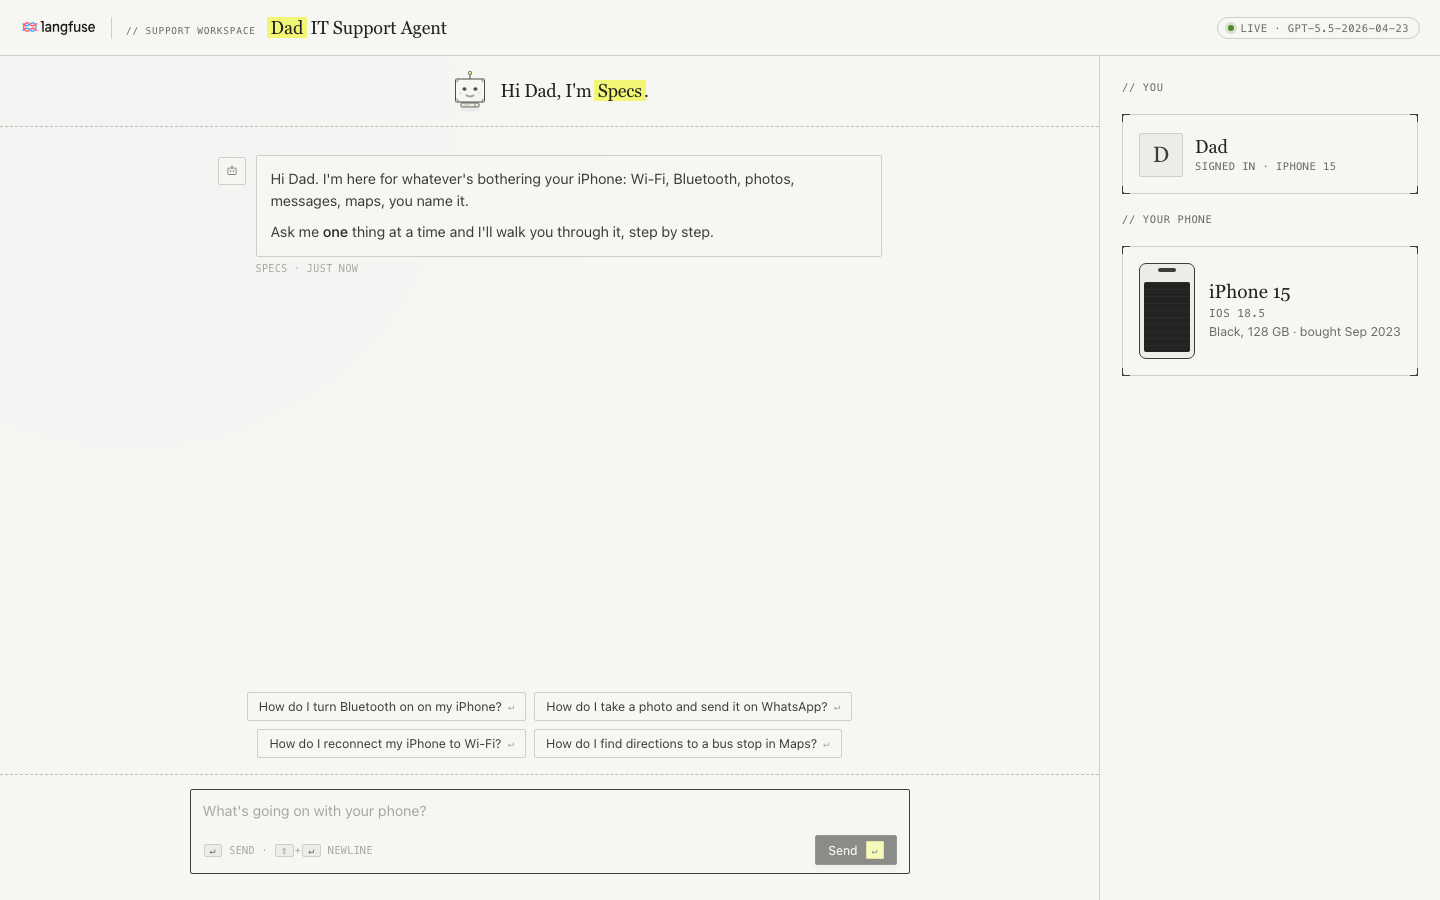
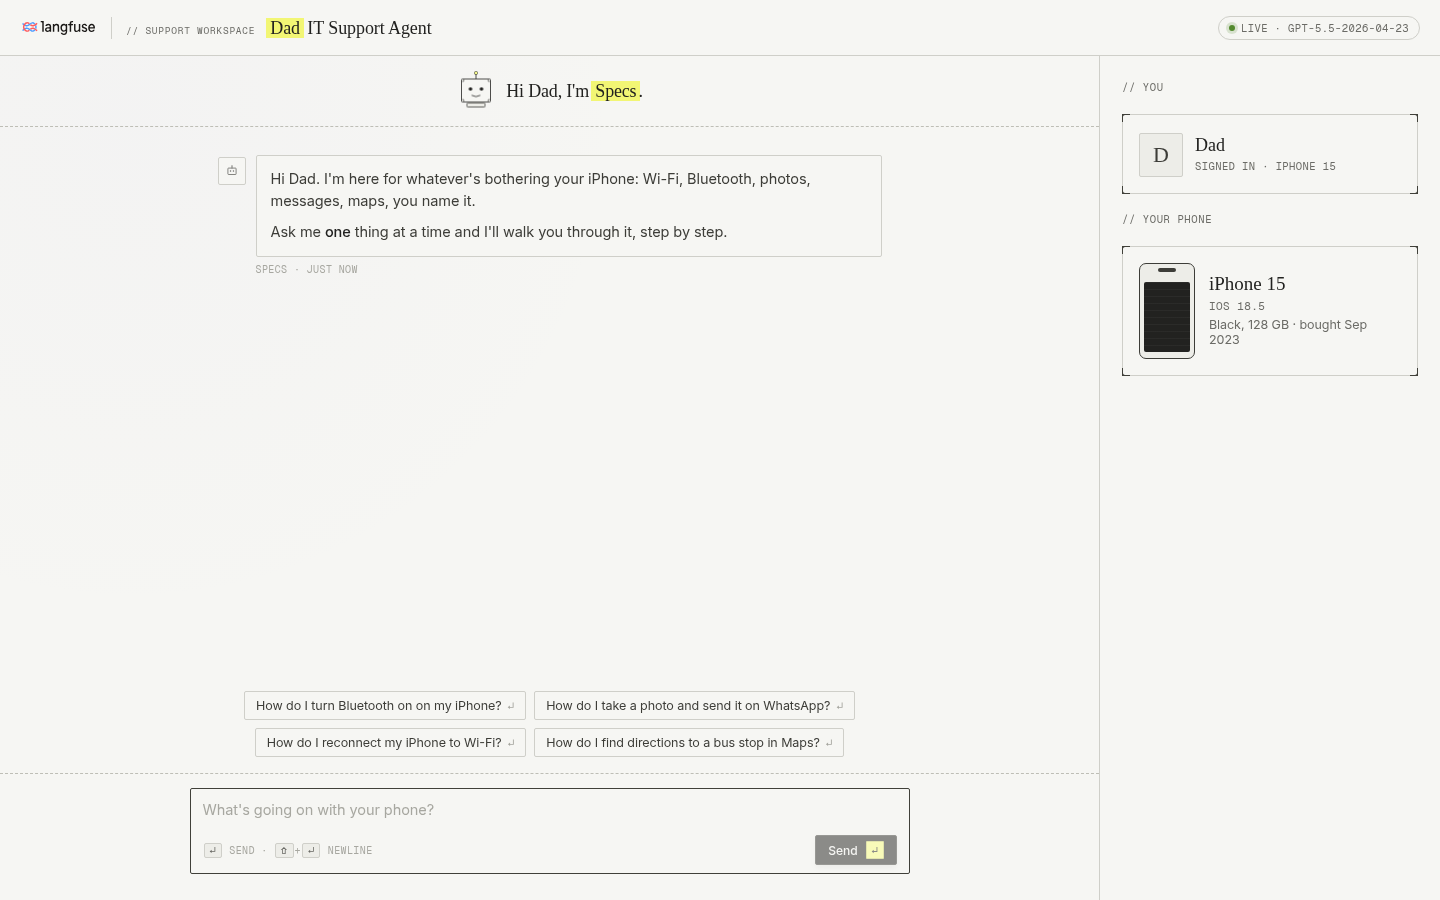
Show the Python app in every app image
- sample_app.png: recaptured from the Python app (1440x900, greeting state).
- specs_illustration.png and tracing/process_illustration.png: redrawn from a
  real Python run (gpt-5.5, iPhone 15, two generations with both tools in the
  first). HTML sources and a render script live in docs/images/source/.
- docs/images/README.md lists the Langfuse UI captures that still show
  TypeScript-written traces.

diff --git a/docs/images/source/specs_illustration.html b/docs/images/source/specs_illustration.html
@@ -1,0 +1,49 @@
+<!doctype html><html><head><meta charset="utf-8"><link rel="stylesheet" href="_base.css">
+<style>
+body { width: 840px; height: 366px; padding: 14px 20px 0; }
+h1 { font-size: 34px; margin-top: 12px; }
+.sub { font-size: 12px; margin-top: 8px; }
+.stage { position: relative; height: 230px; margin-top: 14px; }
+.tools { position:absolute; left: 338px; top: 0; width: 164px; padding: 10px 12px; }
+.tools .row { display:flex; align-items:center; gap:8px; font-family: var(--font-mono); font-size: 11px; padding: 6px 0; }
+.tools .row + .row { border-top: 1px dashed var(--line-divider-dash); }
+.tools .row::before { content:"▸"; color: var(--text-tertiary); font-size:8px; }
+.sq { display:inline-block; width:8px; height:8px; border:1.5px solid var(--text-primary); background: var(--surface-cta-primary); vertical-align: middle; margin-right: 6px; }
+.calls { position:absolute; left: 400px; top: 92px; font-family: var(--font-mono); font-size: 9px; letter-spacing: .1em; color: var(--text-secondary); text-align:center; width: 40px; }
+.vline { position:absolute; left: 420px; top: 84px; height: 30px; border-left: 1.5px dashed var(--text-secondary); }
+.vline::after { content:""; position:absolute; left:-5.5px; bottom:-6px; border-top: 7px solid var(--text-secondary); border-left: 4.5px solid transparent; border-right: 4.5px solid transparent; }
+.user { position:absolute; left: 30px; top: 118px; width: 150px; height: 60px; display:flex; align-items:center; gap: 10px; padding: 0 12px; }
+.av { width: 30px; height: 30px; border:1px solid var(--line-structure); background: var(--surface-1); display:flex; align-items:center; justify-content:center; }
+.agent { position:absolute; left: 328px; top: 120px; width: 184px; height: 66px; display:flex; align-items:center; gap: 12px; padding: 0 12px; }
+.model { position:absolute; left: 640px; top: 128px; width: 170px; white-space: nowrap; height: 46px; border-radius: 23px; display:flex; align-items:center; gap: 10px; padding: 0 16px; }
+.big { font-size: 17px; }
+.small { font-size: 9.5px; color: var(--text-tertiary); }
+.link { position:absolute; top: 150px; border-top: 1.5px dashed var(--text-secondary); }
+.link::before, .link::after { content:""; position:absolute; top:-5.5px; border-top: 4.5px solid transparent; border-bottom: 4.5px solid transparent; }
+.link::before { left:-2px; border-right: 8px solid var(--text-secondary); }
+.link::after { right:-2px; border-left: 8px solid var(--text-secondary); }
+.pill { position:absolute; top: -9px; left: 50%; transform: translateX(-50%); background: var(--surface-bg); border:1px solid var(--line-structure); border-radius: 9px; padding: 1px 8px; font-family: var(--font-mono); font-size: 8.5px; letter-spacing:.1em; white-space:nowrap; color: var(--text-secondary); }
+.legend { position:absolute; left:0; right:0; bottom: 0; }
+</style></head><body>
+<div class="brand"><img src="../../../app/static/assets/langfuse-wordart.svg"><span class="sep"></span><span>// Agent · Architecture · Python app</span></div>
+<h1>How <span class="hl">Specs</span> handles a ticket</h1>
+<p class="sub">One agent, two tools, one model. Each hop is an observation in the trace.</p>
+<div class="stage">
+  <div class="box tools"><span class="c1"></span><span class="c2"></span>
+    <div class="kicker" style="margin-bottom:4px"><span class="sq"></span>Tools</div>
+    <div class="row">get_support_context</div><div class="row">search_help_library</div></div>
+  <div class="vline"></div><div class="calls" style="top:88px;left:440px;text-align:left">CALLS</div>
+  <div class="box user"><span class="c1"></span><span class="c2"></span>
+    <div class="av"><svg width="16" height="16" viewBox="0 0 24 24" fill="none" stroke="#222220" stroke-width="1.4"><circle cx="12" cy="8" r="4"/><path d="M4 21c1-4 4-6 8-6s7 2 8 6"/></svg></div>
+    <div><div class="kicker">// User</div><div class="big">Dad</div><div class="small">"How do I turn Bluetooth on?"</div></div></div>
+  <div class="link" style="left: 184px; width: 140px;"><span class="pill">MESSAGES · ANSWER</span></div>
+  <div class="box agent"><span class="c1"></span><span class="c2"></span>
+    <svg viewBox="0 0 80 92" style="width:24px;height:28px;flex-shrink:0" xmlns="http://www.w3.org/2000/svg"><line x1="40" y1="22" x2="40" y2="12" stroke="#222220" stroke-width="2.4" stroke-linecap="round"/><circle cx="40" cy="10" r="4.4" fill="#fbff81" stroke="#222220" stroke-width="2"/><rect x="11" y="22" width="58" height="46" rx="2" fill="#f6f6f3" stroke="#222220" stroke-width="2.6"/><circle cx="29" cy="42" r="4.6" fill="#222220"/><circle cx="51" cy="42" r="4.6" fill="#222220"/><path d="M32 55 Q40 60 48 55" stroke="#222220" stroke-width="2.6" fill="none" stroke-linecap="round"/><rect x="22" y="70" width="36" height="8" rx="1.5" fill="#edede8" stroke="#222220" stroke-width="2.2"/></svg>
+    <div><div class="kicker">// Agent</div><div class="big"><span class="hl" style="padding:0 4px">Specs</span></div><div class="small">dad-it-support-chat-turn</div></div></div>
+  <div class="link" style="left: 516px; width: 120px;"><span class="pill">COMPLETION</span></div>
+  <div class="box model"><span class="c1"></span><span class="c2"></span>
+    <svg width="18" height="18" viewBox="0 0 24 24" fill="none" stroke="#222220" stroke-width="1.4"><path d="M12 2.5l2.2 4.6 5 .7-3.6 3.5.9 5-4.5-2.4-4.5 2.4.9-5L4.8 7.8l5-.7z"/></svg>
+    <div><div class="kicker">// Model</div><div class="big" style="font-size:14px">OpenAI · <span class="mono" style="font-size:11px">gpt-5.5</span></div></div></div>
+  <div class="legend"><span>- - - traced span</span><span><span class="sq"></span>tool call</span><span>▲ observed by Langfuse</span></div>
+</div>
+</body></html>

diff --git a/docs/images/source/process_illustration.html b/docs/images/source/process_illustration.html
@@ -1,0 +1,51 @@
+<!doctype html><html><head><meta charset="utf-8"><link rel="stylesheet" href="_base.css">
+<style>
+body { width: 850px; height: 267px; padding: 14px 14px 0; }
+h1 { font-size: 26px; margin-top: 10px; }
+.sub { font-size: 11.5px; margin-top: 6px; }
+.row { display:flex; align-items:flex-start; justify-content:center; margin-top: 22px; }
+.step { width: 112px; text-align:center; }
+.num { font-family: var(--font-mono); font-size: 9.5px; color: var(--text-tertiary); margin-bottom: 6px; }
+.step .box { height: 74px; display:flex; flex-direction:column; align-items:center; justify-content:center; gap:5px; padding: 6px 4px; }
+.title { font-size: 13.5px; }
+.cap { font-size: 10.5px; color: var(--text-secondary); margin-top: 7px; line-height: 1.35; }
+.cap i { color: var(--text-primary); }
+.gap { width: 22px; margin-top: 52px; }
+svg.i { width: 18px; height: 18px; }
+.step .kicker { font-size: 8.5px; letter-spacing: .06em; }
+</style></head><body>
+<div class="brand"><img src="../../../app/static/assets/langfuse-wordart.svg"><span class="sep"></span><span>// Agent loop · Python app</span></div>
+<h1>One question becomes <span class="hl">six steps</span>.</h1>
+<p class="sub">Dad asks <i>"How do I turn Bluetooth on?"</i> Here is what Specs did before the answer came back, from a real trace of this app.</p>
+<div class="row">
+ <div class="step"><div class="num">01</div><div class="box"><span class="c1"></span><span class="c2"></span>
+   <svg class="i" viewBox="0 0 24 24" fill="none" stroke="#222220" stroke-width="1.4"><circle cx="12" cy="8" r="4"/><path d="M4 21c1-4 4-6 8-6s7 2 8 6"/></svg>
+   <span class="kicker">// Question</span><span class="title">Dad asks</span></div>
+   <div class="cap"><i>"How do I turn Bluetooth on?"</i></div></div>
+ <div class="gap arrow"></div>
+ <div class="step"><div class="num">02</div><div class="box"><span class="c1"></span><span class="c2"></span>
+   <svg class="i" viewBox="0 0 24 24" fill="none" stroke="#222220" stroke-width="1.4"><path d="M12 2.5l2.2 4.6 5 .7-3.6 3.5.9 5-4.5-2.4-4.5 2.4.9-5L4.8 7.8l5-.7z"/></svg>
+   <span class="kicker llm">// LLM · gpt-5.5</span><span class="title">Plan</span></div>
+   <div class="cap">Calls <i>both tools</i> in one tool-call turn.</div></div>
+ <div class="gap arrow"></div>
+ <div class="step"><div class="num">03</div><div class="box tool"><span class="c1"></span><span class="c2"></span>
+   <svg class="i" viewBox="0 0 24 24" fill="none" stroke="#222220" stroke-width="1.4"><rect x="4" y="6" width="16" height="12" rx="1"/><path d="M8 10h8M8 14h5"/></svg>
+   <span class="kicker">// Tool</span><span class="code">get_support_context</span></div>
+   <div class="cap">Returns <i>iPhone 15</i> and Dad's apps.</div></div>
+ <div class="gap arrow"></div>
+ <div class="step"><div class="num">04</div><div class="box tool"><span class="c1"></span><span class="c2"></span>
+   <svg class="i" viewBox="0 0 24 24" fill="none" stroke="#222220" stroke-width="1.4"><circle cx="10" cy="10" r="6"/><path d="M15 15l5 5"/></svg>
+   <span class="kicker">// Tool</span><span class="code">search_help_library</span></div>
+   <div class="cap">Returns the <i>Bluetooth guide</i>, 4 steps.</div></div>
+ <div class="gap arrow"></div>
+ <div class="step"><div class="num">05</div><div class="box"><span class="c1"></span><span class="c2"></span>
+   <svg class="i" viewBox="0 0 24 24" fill="none" stroke="#222220" stroke-width="1.4"><path d="M12 2.5l2.2 4.6 5 .7-3.6 3.5.9 5-4.5-2.4-4.5 2.4.9-5L4.8 7.8l5-.7z"/></svg>
+   <span class="kicker llm">// LLM · gpt-5.5</span><span class="title">Write</span></div>
+   <div class="cap">Composes the reply from the guide.</div></div>
+ <div class="gap arrow"></div>
+ <div class="step"><div class="num">06</div><div class="box"><span class="c1"></span><span class="c2"></span>
+   <svg viewBox="0 0 80 92" style="width:24px;height:28px;flex-shrink:0" xmlns="http://www.w3.org/2000/svg"><line x1="40" y1="22" x2="40" y2="12" stroke="#222220" stroke-width="2.4" stroke-linecap="round"/><circle cx="40" cy="10" r="4.4" fill="#fbff81" stroke="#222220" stroke-width="2"/><rect x="11" y="22" width="58" height="46" rx="2" fill="#f6f6f3" stroke="#222220" stroke-width="2.6"/><circle cx="29" cy="42" r="4.6" fill="#222220"/><circle cx="51" cy="42" r="4.6" fill="#222220"/><path d="M32 55 Q40 60 48 55" stroke="#222220" stroke-width="2.6" fill="none" stroke-linecap="round"/><rect x="22" y="70" width="36" height="8" rx="1.5" fill="#edede8" stroke="#222220" stroke-width="2.2"/></svg>
+   <span class="kicker">// Reply</span><span class="title">Specs answers</span></div>
+   <div class="cap">Settings → Bluetooth → switch turns green.</div></div>
+</div>
+</body></html>

diff --git a/docs/images/source/_base.css b/docs/images/source/_base.css
@@ -1,0 +1,28 @@
+@import url("../../../app/static/colors.css");
+* { box-sizing: border-box; margin: 0; }
+body { background: var(--surface-bg); color: var(--text-primary); font-family: var(--font-sans); }
+.brand { display:flex; align-items:center; justify-content:center; gap:10px; font-family: var(--font-mono); font-size:10px; letter-spacing:.12em; color: var(--text-tertiary); text-transform: uppercase; }
+.brand img { height: 14px; }
+.brand .sep { width:1px; height:14px; background: var(--line-structure); }
+h1 { font-family: var(--font-sans); font-weight: 500; text-align:center; letter-spacing:-0.02em; }
+.hl { background: var(--surface-cta-primary); padding: 0 6px; }
+.sub { text-align:center; color: var(--text-tertiary); }
+.box { position: relative; border: 1px solid var(--line-structure); background: var(--surface-bg); }
+.box::before, .box::after, .box > .c1, .box > .c2 { content:""; position:absolute; width:8px; height:8px; border-color: var(--text-primary); border-style: solid; }
+.box::before { top:-1px; left:-1px; border-width: 1.5px 0 0 1.5px; }
+.box::after { top:-1px; right:-1px; border-width: 1.5px 1.5px 0 0; }
+.box > .c1 { bottom:-1px; left:-1px; border-width: 0 0 1.5px 1.5px; }
+.box > .c2 { bottom:-1px; right:-1px; border-width: 0 1.5px 1.5px 0; }
+.box.tool { background: #f4f5dc; }
+.box.tool::selection {}
+.box.tool { border-top: 3px solid var(--surface-cta-primary); }
+.kicker { font-family: var(--font-mono); font-size: 9.5px; letter-spacing: .1em; text-transform: uppercase; color: var(--text-tertiary); }
+.kicker.llm { color: #8a86e0; }
+.mono { font-family: var(--font-mono); }
+.code { font-family: var(--font-mono); font-size: 10.5px; background: var(--surface-2); padding: 2px 5px; }
+.arrow { border-top: 1.5px dashed var(--text-secondary); position: relative; }
+.arrow::after { content:""; position:absolute; right:-2px; top:-5.5px; border-left: 8px solid var(--text-secondary); border-top: 4.5px solid transparent; border-bottom: 4.5px solid transparent; }
+.legend { display:flex; gap:34px; justify-content:center; font-family: var(--font-mono); font-size: 9.5px; letter-spacing:.1em; text-transform: uppercase; color: var(--text-secondary); }
+
+.kicker { white-space: nowrap; }
+svg { flex-shrink: 0; }

diff --git a/docs/images/source/render.py b/docs/images/source/render.py
@@ -1,0 +1,23 @@
+"""Render the two agent diagrams from their HTML sources at 2x.
+
+    uv run --with playwright python docs/images/source/render.py
+
+Needs a Chromium: `uv run --with playwright python -m playwright install chromium`.
+The values in the HTML come from a real Python run (see docs/images/README.md).
+"""
+from pathlib import Path
+from playwright.sync_api import sync_playwright
+src = Path(__file__).resolve().parent
+jobs = [("process_illustration.html", 850, 267, str(src.parent / "tracing" / "process_illustration.png")),
+        ("specs_illustration.html", 840, 366, str(src.parent / "specs_illustration.png"))]
+with sync_playwright() as p:
+    args = ["--no-sandbox", "--allow-file-access-from-files"]
+    try:
+        b = p.chromium.launch(args=args)
+    except Exception:  # no bundled Chromium: fall back to an installed Chrome
+        b = p.chromium.launch(channel="chrome", args=args)
+    for name, w, h, out in jobs:
+        pg = b.new_page(viewport={"width": w, "height": h}, device_scale_factor=2)
+        pg.goto((src / name).as_uri(), wait_until="networkidle"); pg.wait_for_timeout(500)
+        pg.screenshot(path=out); pg.close()
+    b.close()

diff --git a/docs/images/README.md b/docs/images/README.md
@@ -6,7 +6,7 @@ https://github.com/langfuse/langfuse-workshop
 
 They were copied at upstream commit `28996a20d39a82e511a8fd043fb26252495453e3` (2026-11-23). This Python port uses the same trace name (`dad-it-support-chat-turn`), tool names (`get_support_context`, `search_help_library`), prompt name (`dad-it-support-agent`), and dataset name (`dad-it-support-workshop`).
 
-`sample_app.png` and `specs_illustration.png` show the upstream client. `python-ui.png` (Specs greeting, suggestion chips, iPhone panel) and `python-ui-answer.png` (the Bluetooth chip answered by the model) are headless Chrome captures of this repo's page at `http://127.0.0.1:3333`, taken during the 2026-11-25 live walkthrough with real OpenAI and Langfuse keys.
+Every image of the app itself is from this Python app. `sample_app.png` (1440x900, greeting state, same framing as the upstream file it replaces) was recaptured on 2026-11-25 with headless Chrome from `http://127.0.0.1:3333`; no doc links it, but it is kept under the upstream name. `python-ui.png` (Specs greeting, suggestion chips, iPhone panel) and `python-ui-answer.png` (the Bluetooth chip answered by the model) are headless Chrome captures of this repo's page at `http://127.0.0.1:3333`, taken during the 2026-11-25 live walkthrough with real OpenAI and Langfuse keys.
 
 ## Recaptured on 2026-11-25
 
@@ -42,6 +42,20 @@ The 15 files in `topics/` were copied unchanged from upstream commit `df8f386dd6
 
 Some are byte-identical upstream too (`result-issues.png` = `insight-issues.png`, `result-sentiment.png` = `insight-sentiment.png`). `edit-map.png`, `topic-map.png`, and `scatter.png` are not referenced by the lesson; they are kept because upstream ships them.
 
-Diagrams that are not UI captures (`AI-engineering-loop.png`, `specs_illustration.png`, `tracing/process_illustration.png`, `monitoring/error-analysis-process.png`) do not need a Langfuse session.
+## Agent diagrams (Python, 2026-11-25)
+
+`specs_illustration.png` (architecture) and `tracing/process_illustration.png` (the six steps of one turn) are diagrams, not screen captures, but they show what the app does, so they are redrawn from a real Python run instead of reusing the upstream art. The upstream versions said `gpt-4o`, `iPhone 11 · iOS 16.7.10`, and three LLM calls. The 2026-11-25 run of "How do I turn Bluetooth on?" (trace `917cb569feda6b3d5a6904b1a1300522` in `python-workshop-walkthrough`) showed `gpt-5.5-2026-04-23`, two `OpenAI-generation` calls (the first requests `get_support_context` and `search_help_library` together, the second writes the answer), `devices: ["iPhone 15"]`, and the 4-step `iphone-bluetooth` guide. Sources are `source/*.html` (styled with `app/static/colors.css`); re-render both with `uv run --with playwright python docs/images/source/render.py` and update the values if the app changes.
+
+`AI-engineering-loop.png` and `monitoring/error-analysis-process.png` are concept diagrams with no app output in them. They stay as the upstream art.
+
+## Langfuse UI captures that still show TypeScript-written traces
+
+These upstream captures show Langfuse's UI, not the app, but the traces in them came from the TypeScript app: `OpenAI.chat` generation names (Python writes `OpenAI-generation`), `gpt-4.1-mini`, or JS SDK metadata (`scope.name: langfuse-sdk`, `scope.version: 5.3.0`). Recapturing them needs the Langfuse UI and evaluator-wizard mutations:
+
+- `monitoring/select-sample-observation.png`, `monitoring/user-frustration-target-root-observation.png`
+- `monitoring/user-disagreement-conversation-history-mapping.png`, `monitoring/user-disagreement-last-user-message-mapping.png`, `monitoring/user-disagreement-test-evaluator.png`, `monitoring/user-disagreement-execute-evaluator.png`
+- `monitoring/out-of-scope.png`, `monitoring/out-of-scope-example.png` (not linked from a lesson)
+
+`monitoring/user-frustration-target-root-observation.png` also shows the ALL CAPS evaluator's TypeScript, which is correct: Langfuse runs code evaluators in its TypeScript sandbox.
 
 `scripts/refresh_screenshots.py` is the refresh path for a later pass. It exits successfully and leaves the files in place when `LANGFUSE_PROJECT_URL` and a Playwright storage state (or email and password) are missing.

diff --git a/SYNC.md b/SYNC.md
@@ -40,7 +40,7 @@ Do not open issues, pull requests, or pushes on `langfuse/langfuse-workshop`.
 | `docs/learner/08-wrap-up.md` | `docs/learner/08-wrap-up.md` | Ported |
 | `docs/instructor/*.md` | `docs/instructor/*.md` | Ported, with Python commands |
 | `docs/preparation_and_materials/README.md` | `docs/preparation_and_materials/README.md` | Ported |
-| `docs/images/**` | `docs/images/**` | Diagrams, the monitoring shots that were not recaptured, and all 15 `topics/` shots are upstream captures (`topics/` from `df8f386`). Thirteen Langfuse UI screenshots were recaptured on 2026-11-25 from a live Python run. `python-ui.png` and `python-ui-answer.png` are local captures of the Python chat page |
+| `docs/images/**` | `docs/images/**` | Diagrams, the monitoring shots that were not recaptured, and all 15 `topics/` shots are upstream captures (`topics/` from `df8f386`). Thirteen Langfuse UI screenshots were recaptured on 2026-11-25 from a live Python run. `python-ui.png`, `python-ui-answer.png`, and `sample_app.png` are local captures of the Python chat page. `specs_illustration.png` and `tracing/process_illustration.png` are redrawn from a real Python run (`docs/images/source/`); keep them when syncing upstream image changes |
 | `src/server/support-agent.ts` | `app/support_agent.py` | Ported |
 | `src/server/tools.ts` | `app/tools.py` | Ported |
 | `src/server/support-data.ts` | `app/support_data.py` | Ported |

diff --git a/docs/learner/02-tracing.md b/docs/learner/02-tracing.md
@@ -21,7 +21,7 @@ When Dad asks "How do I turn Bluetooth on?", the agent does not just hit OpenAI 
 
 The goal is one nested trace per chat turn: the agent run, the OpenAI generations, and the two tool calls, in order.
 
-![Spec's step by step process](../images/tracing/process_illustration.png)
+![One question becomes six steps: Dad asks, the model requests both tools, get_support_context and search_help_library return, the model writes, and Specs answers.](../images/tracing/process_illustration.png)
 
 1. **First trace**: log the OpenAI generations themselves.
 2. **Nested traces**: group the generations under one agent run per turn.
